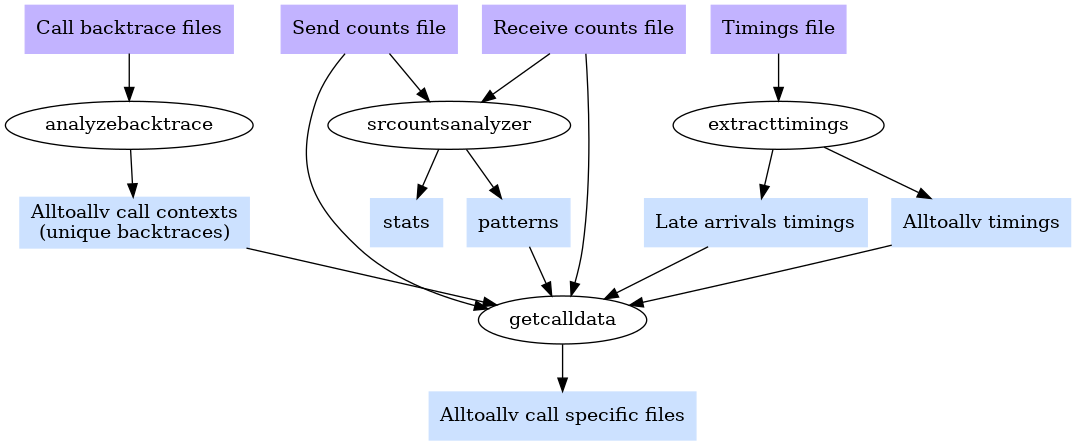
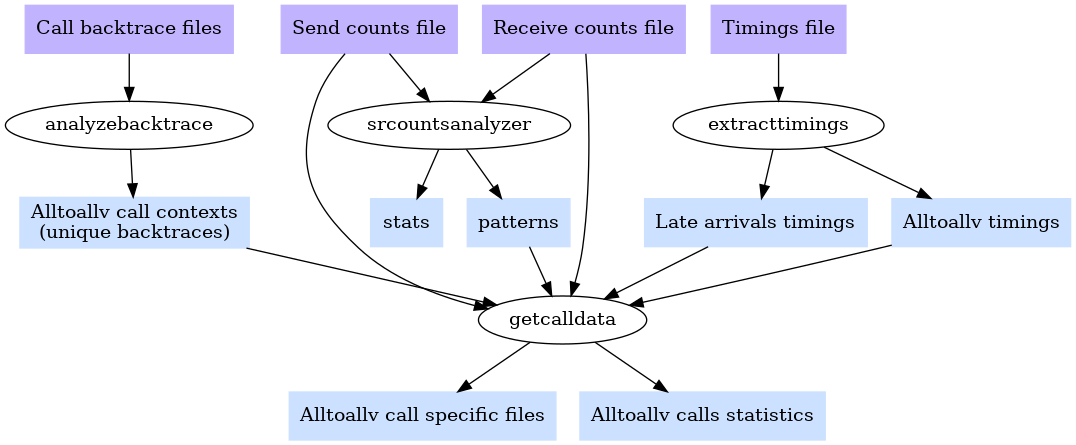
Finish the capability of extracting specific calls' data and get stats from it

diff --git a/tools/cmd/getcalldata/getcalldata.go b/tools/cmd/getcalldata/getcalldata.go
@@ -8,12 +8,85 @@ import (
 	"log"
 	"os"
 	"path/filepath"
+	"reflect"
 	"strconv"
 	"strings"
+
+	"github.com/gvallee/alltoallv_profiling/tools/internal/pkg/notation"
 
 	"github.com/gvallee/alltoallv_profiling/tools/internal/pkg/datafilereader"
 	"github.com/gvallee/go_util/pkg/util"
 )
+
+func saveCountsSummary(f *os.File, callInfo datafilereader.CallInfo) error {
+	_, err := f.WriteString("## Summary\n\n")
+	if err != nil {
+		return err
+	}
+	_, err = f.WriteString(fmt.Sprintf("Communicator size: %d\n", callInfo.CommSize))
+	if err != nil {
+		return err
+	}
+
+	_, err = f.WriteString("### Send counts summary\n\n")
+	if err != nil {
+		return err
+	}
+	_, err = f.WriteString(fmt.Sprintf("Send data type size: %d\n", callInfo.SendDatatypeSize))
+	if err != nil {
+		return err
+	}
+	_, err = f.WriteString(fmt.Sprintf("Max send count: %d\n", callInfo.SendMax))
+	if err != nil {
+		return err
+	}
+	_, err = f.WriteString(fmt.Sprintf("Min send count: %d\n", callInfo.SendMin))
+	if err != nil {
+		return err
+	}
+	_, err = f.WriteString(fmt.Sprintf("Min non-zero send count: %d\n", callInfo.SendNotZeroMin))
+	if err != nil {
+		return err
+	}
+	_, err = f.WriteString(fmt.Sprintf("Number of small non-zero messages: %d\n", callInfo.SendSmallNotZeroMsgs))
+	if err != nil {
+		return err
+	}
+	_, err = f.WriteString(fmt.Sprintf("Number of large messages: %d\n", callInfo.SendLargeMsgs))
+	if err != nil {
+		return err
+	}
+	_, err = f.WriteString("### Receive counts summary\n\n")
+	if err != nil {
+		return err
+	}
+	_, err = f.WriteString(fmt.Sprintf("Recv data type size: %d\n", callInfo.RecvDatatypeSize))
+	if err != nil {
+		return err
+	}
+	_, err = f.WriteString(fmt.Sprintf("Max recv count: %d\n", callInfo.RecvMax))
+	if err != nil {
+		return err
+	}
+	_, err = f.WriteString(fmt.Sprintf("Min recv count: %d\n", callInfo.RecvMin))
+	if err != nil {
+		return err
+	}
+	_, err = f.WriteString(fmt.Sprintf("Min non-zero recv count: %d\n", callInfo.RecvNotZeroMin))
+	if err != nil {
+		return err
+	}
+	_, err = f.WriteString(fmt.Sprintf("Number of small non-zero messages: %d\n", callInfo.RecvSmallNotZeroMsgs))
+	if err != nil {
+		return err
+	}
+	_, err = f.WriteString(fmt.Sprintf("Number of large messages: %d\n", callInfo.RecvLargeMsgs))
+	if err != nil {
+		return err
+	}
+
+	return nil
+}
 
 func main() {
 	verbose := flag.Bool("v", false, "Enable verbose mode")
@@ -68,17 +141,20 @@ func main() {
 		fmt.Printf("\n")
 	}
 
+	var callsInfo []datafilereader.CallInfo
 	for _, callNum := range listCalls {
 		callInfo, err := datafilereader.GetCallData(*dir, *jobid, *pid, callNum)
 		if err != nil {
 			log.Fatalf("unable to get data of call #%d: %s", callNum, err)
 		}
+		callsInfo = append(callsInfo, callInfo)
 
 		callFilePath := filepath.Join(*dir, fmt.Sprintf("call%d-job%d-pid%d.md", callNum, *jobid, *pid))
 		newFile, err := os.OpenFile(callFilePath, os.O_WRONLY|os.O_CREATE, 0755)
 		if err != nil {
 			log.Fatalf("unable to create %s: %s", callFilePath, err)
 		}
+		defer newFile.Close()
 
 		_, err = newFile.WriteString("\n# Bracktrace\n\n")
 		if err != nil {
@@ -131,6 +207,9 @@ func main() {
 		if err != nil {
 			log.Fatalf("unable to write to file: %s", err)
 		}
+
+		err = saveCountsSummary(newFile, callInfo)
+
 		_, err = newFile.WriteString("## Send counts\n\n")
 		if err != nil {
 			log.Fatalf("unable to write to file: %s", err)
@@ -183,4 +262,82 @@ func main() {
 		}
 		fmt.Printf("Data for call #%d saved in %s\n", callNum, callFilePath)
 	}
+
+	summaryFilePath := filepath.Join(*dir, fmt.Sprintf("calls-%s.md", *calls))
+	summaryFile, err := os.OpenFile(summaryFilePath, os.O_WRONLY|os.O_CREATE, 0755)
+	if err != nil {
+		log.Fatalf("unable to open file %s: %s", summaryFilePath, err)
+	}
+	defer summaryFile.Close()
+
+	var uniqueBacktraces []string
+	// Find unique backtraces
+	for _, info := range callsInfo {
+		backtraceExists := false
+		for _, bt := range uniqueBacktraces {
+			if info.Backtrace == bt {
+				backtraceExists = true
+				break
+			}
+		}
+
+		if !backtraceExists {
+			uniqueBacktraces = append(uniqueBacktraces, info.Backtrace)
+		}
+	}
+
+	num := 1
+	for _, ubt := range uniqueBacktraces {
+		_, err = summaryFile.WriteString("# Backtraces\n\n")
+		if err != nil {
+			log.Fatalf("unable to write to file: %s", err)
+		}
+		_, err = summaryFile.WriteString(fmt.Sprintf("## Backtrace %d\n\n", num))
+		if err != nil {
+			log.Fatalf("unable to write to file: %s", err)
+		}
+		_, err = summaryFile.WriteString(fmt.Sprintf("%s\n", ubt))
+		if err != nil {
+			log.Fatalf("unable to write to file: %s", err)
+		}
+		num++
+	}
+
+	// Find unique min/max counts
+	var uniqueMinMaxCallsInfo []datafilereader.CallInfo
+	callIDs := make([][]int, len(callsInfo))
+	num = 0
+	for _, info := range callsInfo {
+		dataExists := false
+		for _, uniqueMinMaxInfo := range uniqueMinMaxCallsInfo {
+			if info.CommSize == uniqueMinMaxInfo.CommSize &&
+				info.RecvDatatypeSize == uniqueMinMaxInfo.RecvDatatypeSize &&
+				info.SendDatatypeSize == uniqueMinMaxInfo.SendDatatypeSize &&
+				reflect.DeepEqual(info.RecvCounts, uniqueMinMaxInfo.RecvCounts) &&
+				reflect.DeepEqual(info.SendCounts, uniqueMinMaxInfo.SendCounts) {
+				dataExists = true
+				callIDs[num] = append(callIDs[num], info.ID)
+				break
+			}
+		}
+
+		if !dataExists {
+			uniqueMinMaxCallsInfo = append(uniqueMinMaxCallsInfo, info)
+			callIDs[len(uniqueMinMaxCallsInfo)-1] = append(callIDs[len(uniqueMinMaxCallsInfo)-1], info.ID)
+		}
+		num++
+	}
+
+	num = 0
+	for _, uniqueInfo := range uniqueMinMaxCallsInfo {
+		_, err = summaryFile.WriteString(fmt.Sprintf("Calls: %s\n", notation.CompressIntArray(callIDs[num])))
+		if err != nil {
+			log.Fatalf("unable to write to file: %s", err)
+		}
+		err = saveCountsSummary(summaryFile, uniqueInfo)
+		if err != nil {
+			log.Fatalf("unable to write to file: %s", err)
+		}
+	}
+	fmt.Printf("Summary is saved in %s\n", summaryFilePath)
 }

diff --git a/tools/internal/pkg/datafilereader/datafilereader_counts.go b/tools/internal/pkg/datafilereader/datafilereader_counts.go
@@ -85,11 +85,11 @@ func parseCounts(counts []string, msgSizeThreshold int, datatypeSize int) (Count
 				stats.Min = count
 			}
 
-			if stats.MinWithoutZero == -1 && count >= 0 {
+			if stats.MinWithoutZero == -1 && count > 0 {
 				stats.MinWithoutZero = count
 			}
 
-			if stats.MinWithoutZero != -1 && count < stats.MinWithoutZero {
+			if stats.MinWithoutZero != -1 && count > 0 && count < stats.MinWithoutZero {
 				stats.MinWithoutZero = count
 			}
 		}
@@ -285,6 +285,42 @@ func GetCounters(reader *bufio.Reader) ([]string, error) {
 	return callCounters, nil
 }
 
+func (info *CallInfo) getCallStatsFromCounts(msgSizeThreshold int) error {
+	sendStats, err := parseCounts(info.SendCounts, msgSizeThreshold, info.SendDatatypeSize)
+	if err != nil {
+		return err
+	}
+
+	info.Patterns.SendPatterns = sendStats.Patterns
+	info.Patterns.SendZeroCounts = sendStats.ZerosPerRankPatterns
+	info.Patterns.SendNotZeroCounts = sendStats.NoZerosPerRankPatterns
+	info.SendLargeMsgs = sendStats.LargeMsgs
+	info.SendMax = sendStats.Max
+	info.SendMin = sendStats.Min
+	info.SendNotZeroMin = sendStats.MinWithoutZero
+	info.SendSmallMsgs = sendStats.SmallMsgs
+	info.SendSmallNotZeroMsgs = sendStats.SmallNotZeroMsgs
+	info.TotalSendZeroCounts = sendStats.TotalZeroCounts
+
+	recvStats, err := parseCounts(info.RecvCounts, msgSizeThreshold, info.RecvDatatypeSize)
+	if err != nil {
+		return err
+	}
+
+	info.Patterns.RecvPatterns = recvStats.Patterns
+	info.Patterns.RecvZeroCounts = recvStats.ZerosPerRankPatterns
+	info.Patterns.RecvNotZeroCounts = recvStats.NoZerosPerRankPatterns
+	info.RecvNotZeroMin = recvStats.MinWithoutZero
+	info.RecvMin = recvStats.Min
+	info.RecvMax = recvStats.Max
+	info.RecvSmallMsgs = recvStats.SmallMsgs
+	info.RecvSmallNotZeroMsgs = recvStats.SmallNotZeroMsgs
+	info.RecvLargeMsgs = recvStats.LargeMsgs
+	info.TotalRecvZeroCounts = recvStats.TotalZeroCounts
+
+	return nil
+}
+
 func lookupCallfromCountsFile(reader *bufio.Reader, numCall int) (int, int, []string, error) {
 	var counts []string
 	var err error
@@ -331,17 +367,15 @@ func LookupCall(sendCountsFile string, recvCountsFile string, numCall int, msgSi
 	recvCountsReader := bufio.NewReader(fRecvCounts)
 
 	// find the call's data from the send counts file first
-	var sendCounts []string
 	sendNumRanks := 0
-	sendNumRanks, info.SendDatatypeSize, sendCounts, err = lookupCallfromCountsFile(sendCountsReader, numCall)
+	sendNumRanks, info.SendDatatypeSize, info.SendCounts, err = lookupCallfromCountsFile(sendCountsReader, numCall)
 	if err != nil {
 		return info, err
 	}
 
 	// find the call's data from the recv counts file then
-	var recvCounts []string
 	recvNumRanks := 0
-	recvNumRanks, info.RecvDatatypeSize, recvCounts, err = lookupCallfromCountsFile(recvCountsReader, numCall)
+	recvNumRanks, info.RecvDatatypeSize, info.RecvCounts, err = lookupCallfromCountsFile(recvCountsReader, numCall)
 	if err != nil {
 		return info, err
 	}
@@ -354,39 +388,11 @@ func LookupCall(sendCountsFile string, recvCountsFile string, numCall int, msgSi
 	var cp CallPattern
 	cp.SendZeroCounts = make(map[int]int)
 	cp.RecvZeroCounts = make(map[int]int)
-	//info.SendNotZeroMin, info.SendMin, info.SendMax, info.SendSmallMsgs, info.SendSmallNotZeroMsgs, info.SendLargeMsgs, info.Patterns.SendZeroCounts, info.Patterns.SendNotZeroCounts, info.Patterns.SendPatterns, err = parseCounts(sendCounts, msgSizeThreshold, info.SendDatatypeSize)
-	sendStats, err := parseCounts(sendCounts, msgSizeThreshold, info.SendDatatypeSize)
+
+	err = info.getCallStatsFromCounts(msgSizeThreshold)
 	if err != nil {
 		return info, err
 	}
-
-	info.Patterns.SendPatterns = sendStats.Patterns
-	info.Patterns.SendZeroCounts = sendStats.ZerosPerRankPatterns
-	info.Patterns.SendNotZeroCounts = sendStats.NoZerosPerRankPatterns
-	info.SendLargeMsgs = sendStats.LargeMsgs
-	info.SendMax = sendStats.Max
-	info.SendMin = sendStats.Min
-	info.SendNotZeroMin = sendStats.MinWithoutZero
-	info.SendSmallMsgs = sendStats.SmallMsgs
-	info.SendSmallNotZeroMsgs = sendStats.SmallNotZeroMsgs
-	info.TotalSendZeroCounts = sendStats.TotalZeroCounts
-
-	//info.RecvNotZeroMin, info.RecvMin, info.RecvMax, info.RecvSmallMsgs, info.RecvSmallNotZeroMsgs, info.RecvLargeMsgs, info.Patterns.RecvZeroCounts, info.Patterns.RecvNotZeroCounts, info.Patterns.RecvPatterns, err = parseCounts(recvCounts, msgSizeThreshold, info.RecvDatatypeSize)
-	recvStats, err := parseCounts(recvCounts, msgSizeThreshold, info.RecvDatatypeSize)
-	if err != nil {
-		return info, err
-	}
-
-	info.Patterns.RecvPatterns = recvStats.Patterns
-	info.Patterns.RecvZeroCounts = recvStats.ZerosPerRankPatterns
-	info.Patterns.RecvNotZeroCounts = recvStats.NoZerosPerRankPatterns
-	info.RecvNotZeroMin = recvStats.MinWithoutZero
-	info.RecvMin = recvStats.Min
-	info.RecvMax = recvStats.Max
-	info.RecvSmallMsgs = recvStats.SmallMsgs
-	info.RecvSmallNotZeroMsgs = recvStats.SmallNotZeroMsgs
-	info.RecvLargeMsgs = recvStats.LargeMsgs
-	info.TotalRecvZeroCounts = recvStats.TotalZeroCounts
 
 	return info, nil
 }

diff --git a/tools/internal/pkg/datafilereader/datafilereader.go b/tools/internal/pkg/datafilereader/datafilereader.go
@@ -30,6 +30,8 @@ const (
 
 	sendCountersFilePrefix = "send-counters."
 	recvCountersFilePrefix = "recv-counters."
+
+	defaultMsgSizeThreshold = 200
 )
 
 type CallPattern struct {
@@ -42,6 +44,7 @@ type CallPattern struct {
 }
 
 type CallInfo struct {
+	ID                   int
 	Patterns             CallPattern
 	PatternStr           string
 	SendCounts           []string
@@ -112,6 +115,7 @@ func GetStatsFilePath(basedir string, jobid int, pid int) string {
 
 func GetCallData(dir string, jobid int, pid int, callNum int) (CallInfo, error) {
 	var info CallInfo
+	info.ID = callNum
 
 	// Load the counts from raw data
 	log.Printf("Extracting send/receive counts for call #%d\n", callNum)
@@ -133,13 +137,17 @@ func GetCallData(dir string, jobid int, pid int, callNum int) (CallInfo, error) 
 	defer recvCountsFd.Close()
 	recvCountsFileReader := bufio.NewReader(recvCountsFd)
 
-	_, _, info.SendCounts, err = lookupCallfromCountsFile(sendCountsFileReader, callNum)
+	_, info.SendDatatypeSize, info.SendCounts, err = lookupCallfromCountsFile(sendCountsFileReader, callNum)
 	if err != nil {
 		return info, nil
 	}
-	_, _, info.RecvCounts, err = lookupCallfromCountsFile(recvCountsFileReader, callNum)
+	_, info.RecvDatatypeSize, info.RecvCounts, err = lookupCallfromCountsFile(recvCountsFileReader, callNum)
 	if err != nil {
 		return info, nil
+	}
+	err = info.getCallStatsFromCounts(defaultMsgSizeThreshold)
+	if err != nil {
+		return info, err
 	}
 
 	// Get timings from formatted timing file
